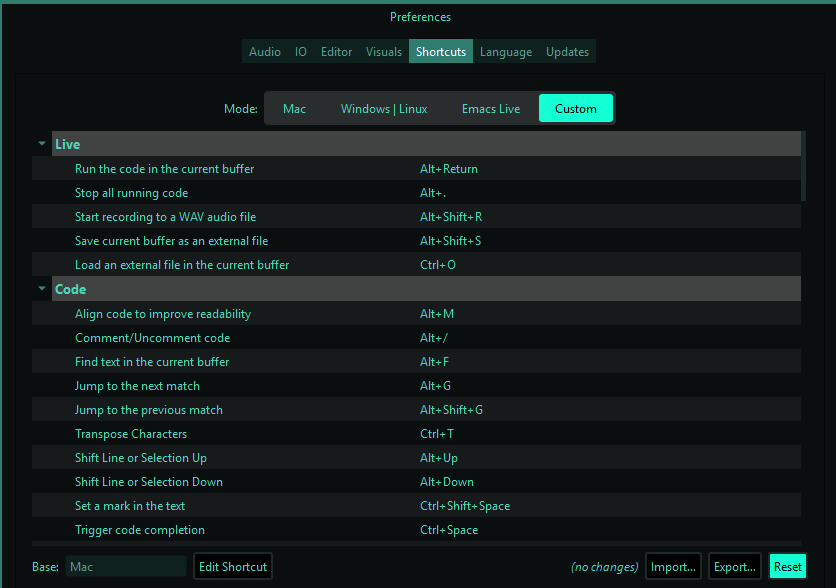
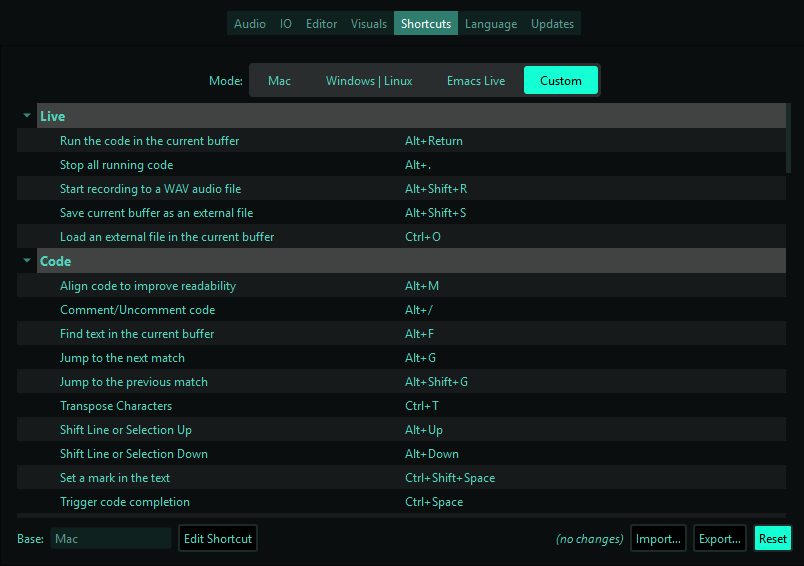
feat(blog): update sonic-pi-v5-release misc-note + table of contents

Changed region(s): [[0.0, 0.0, 1.0, 0.9912], [0.6841, 0.9011, 0.995, 0.9912], [0.0, 0.9311, 0.1244, 0.9912]]

diff --git a/src/content/blog/misc-notes/sp5-release/sonicpi-v5-release.md b/src/content/blog/misc-notes/sp5-release/sonicpi-v5-release.md
@@ -54,8 +54,7 @@ I'll cover the new interface, documentation workflow, some of the mathematical i
 ## Preferences: First look at the new interface
 
 The interface redesign also made a great impression on me. It feels more modern, cleaner, and more enjoyable to work with.
-
-![Preferences](sp5-preferences.png)
+![alt text](sp5-preferences.png)
 
 We finally have theme customization, including **hue** changes, **transparency**, **monochrome**, and **color inversion**, providing a more personalized experience. The available themes are:
 
@@ -119,6 +118,7 @@ Do you want more lines for your buffer $2$ or $6$? It will now support up to $2.
 ### Shortcuts
 
 ![Sonic Pi 5 - Shorcuts](sp5-shortcuts.png)
+
 Many times you are already familiar with a specific editor, so you need to learn new shortcuts to play with SP. In this new release, we now have 4 shortcut modes:
 
 - Mac
@@ -139,7 +139,7 @@ There are also the audio options, such as selecting the audio device/driver, sam
 
 The documentation available through the help panel using the **`F1` key** is impressive. It creates a natural bridge for people coming from music production environments, **DAWs**, and hardware synthesizers.
 
-![Sonic Pi v5 DOCS Panel](sp5-docs.webp)
+![Sonic Pi v5 DOCS Panel](sp5-docs.png)
 
 > Now the docs and `f1` panes are independent windows. The help pane can be moved to another monitor, allowing you to keep your live session uninterrupted while adjusting its size and zoom as needed.
 
@@ -733,6 +733,7 @@ Use the copy button to quickly try the code in your own live coding session.
 
 ```ruby
 ##| What Is Love (HADDAWAY) for Sonic Pi
+##| Coded by Edgar Delgado Vega
 
 use_bpm 126
 
